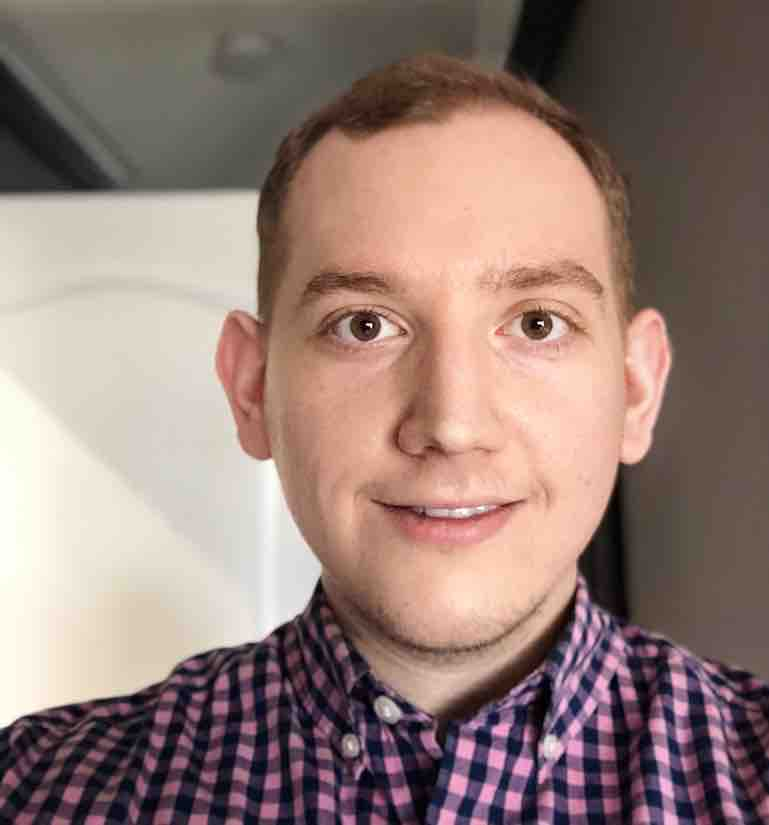
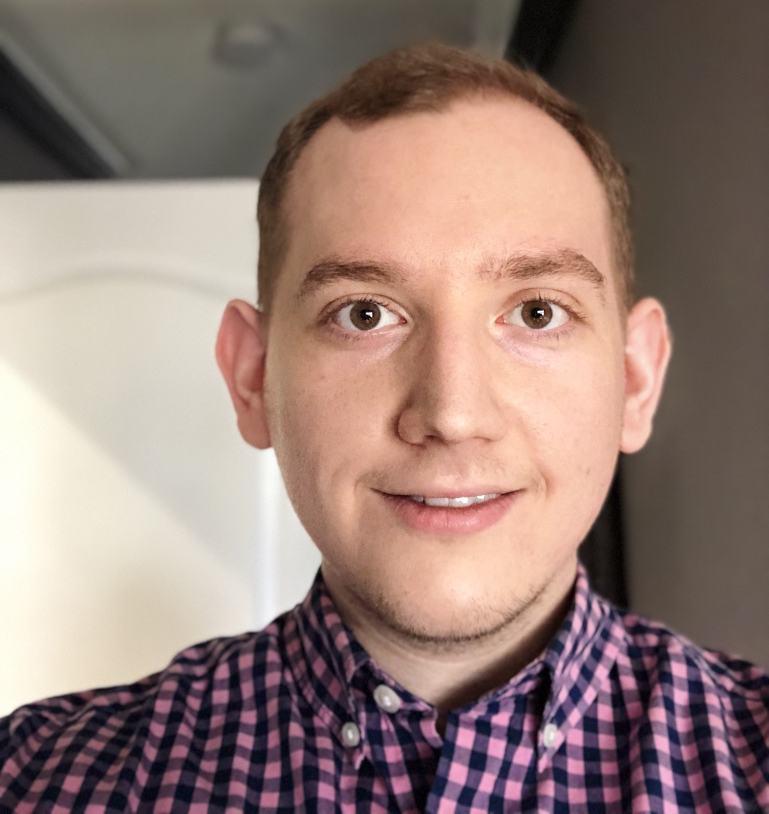
fixed low quality profile image. Updated About me with a sleeker pitch. Fixed some CSS styles.

diff --git a/index.html b/index.html
@@ -88,33 +88,25 @@
 				</div>
 				<div class="row">
 					<div class="col-md-5 animate-box">
-						<div class="owl-carousel3">
+
 							<div class="item">
-								<img class="img-responsive about-img" src="images/ilham.jpg" alt="html5 bootstrap template by colorlib.com">
+								<img class="img-responsive about-img" src="images/ilham.jpg" alt="picture of Ilham Hafizovic, owner of website">
 							</div>
-							<div class="item">
-								<img class="img-responsive about-img" src="images/ilham.jpg" alt="html5 bootstrap template by colorlib.com">
-							</div>
-						</div>
+
 					</div>
 					<div class="col-md-6 col-md-push-1 animate-box">
 						<div class="about-desc">
-							<div class="owl-carousel3">
+
 								<div class="item">
-									<h2><span>Increase Your Revenues</span></h2>
+									<h2><span>I Help Businesses Increase Revenue By Improving Their Customer User Experience (UI/UX)</span></h2>
 								</div>
-								<div class="item">
-									<h2><span>Improve User Experience (UI/UX)</span></h2>
-								</div>
-							</div>
+
 							<div class="desc">
 								<div class="rotate">
 									<h2 class="heading">About</h2>
 								</div>
 								<p>
-									I help increase business revenue streams by improving the customer / user experience of the product / sales pipeline. 
-									<br />I identify core customer profiles to build and optimize useful features for simplicity and usability.
-									<br />With change management experience at a Fortune 500 I optimize business tech stacks, helping teams transition to the latest front-end libraries/frameworks enabling developers to work on user features; reducing non essential scaffold building.
+									I work with your business to identify useful and important features your customers want, making them with the latest front-end frameworks and libraries to set you apart from the competition.
 								</p>
 								<p class="colorlib-social-icons">
 										<a href="https://www.linkedin.com/in/hfzvc"><i class="icon-linkedin"></i></a>

diff --git a/css/style.css b/css/style.css
@@ -386,7 +386,7 @@ header {
       display: block;
       margin-bottom: 0;
       color: #000;
-      font-size: 50px;
+      font-size: 42px;
       font-family: "Playfair Display", Georgia, serif; }
   .about-desc .desc {
     padding-left: 6em;
